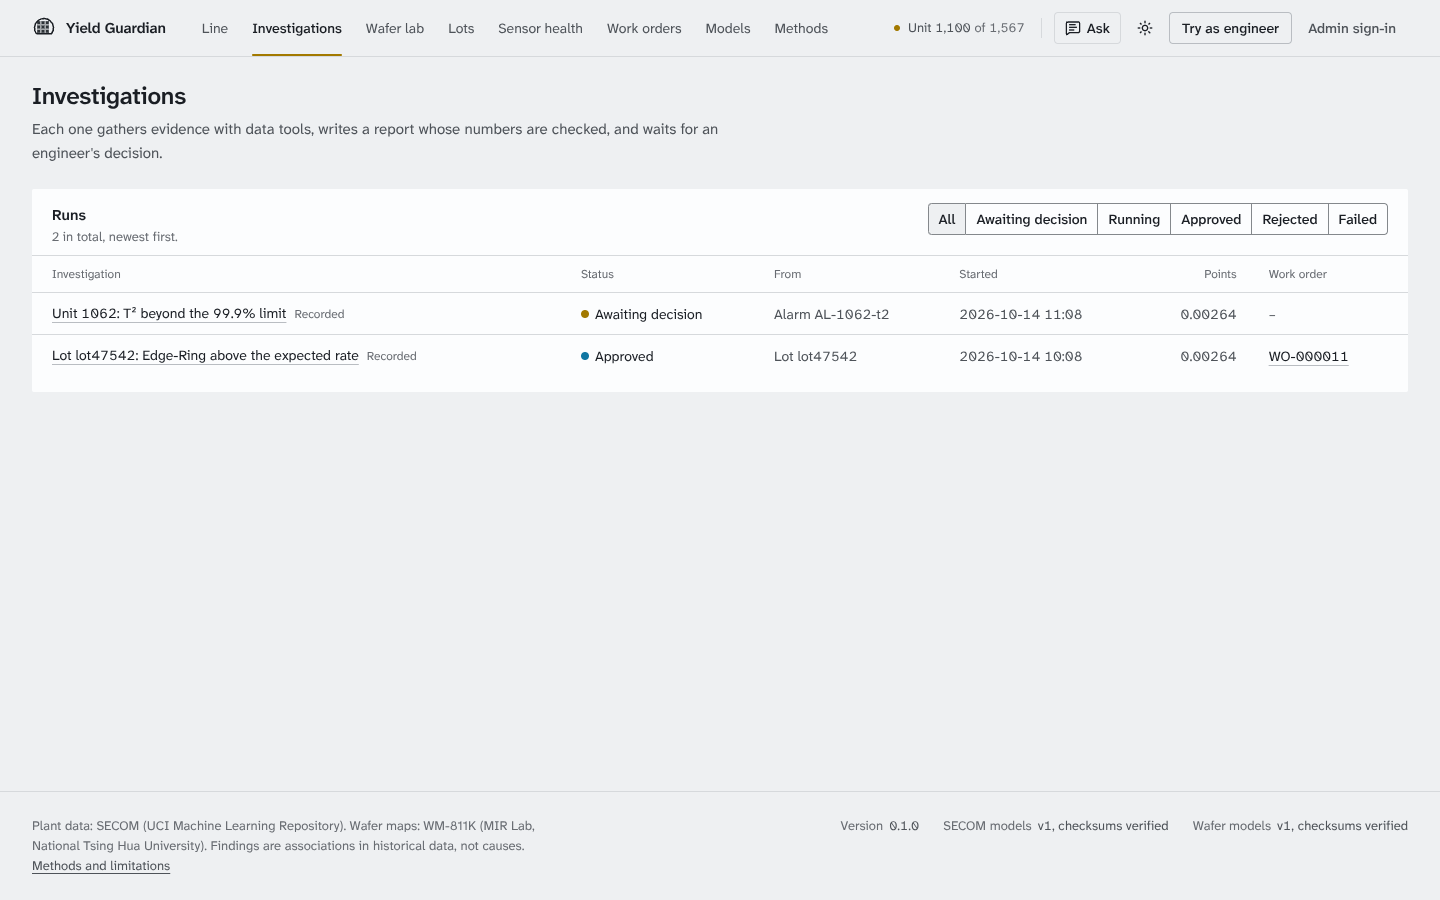
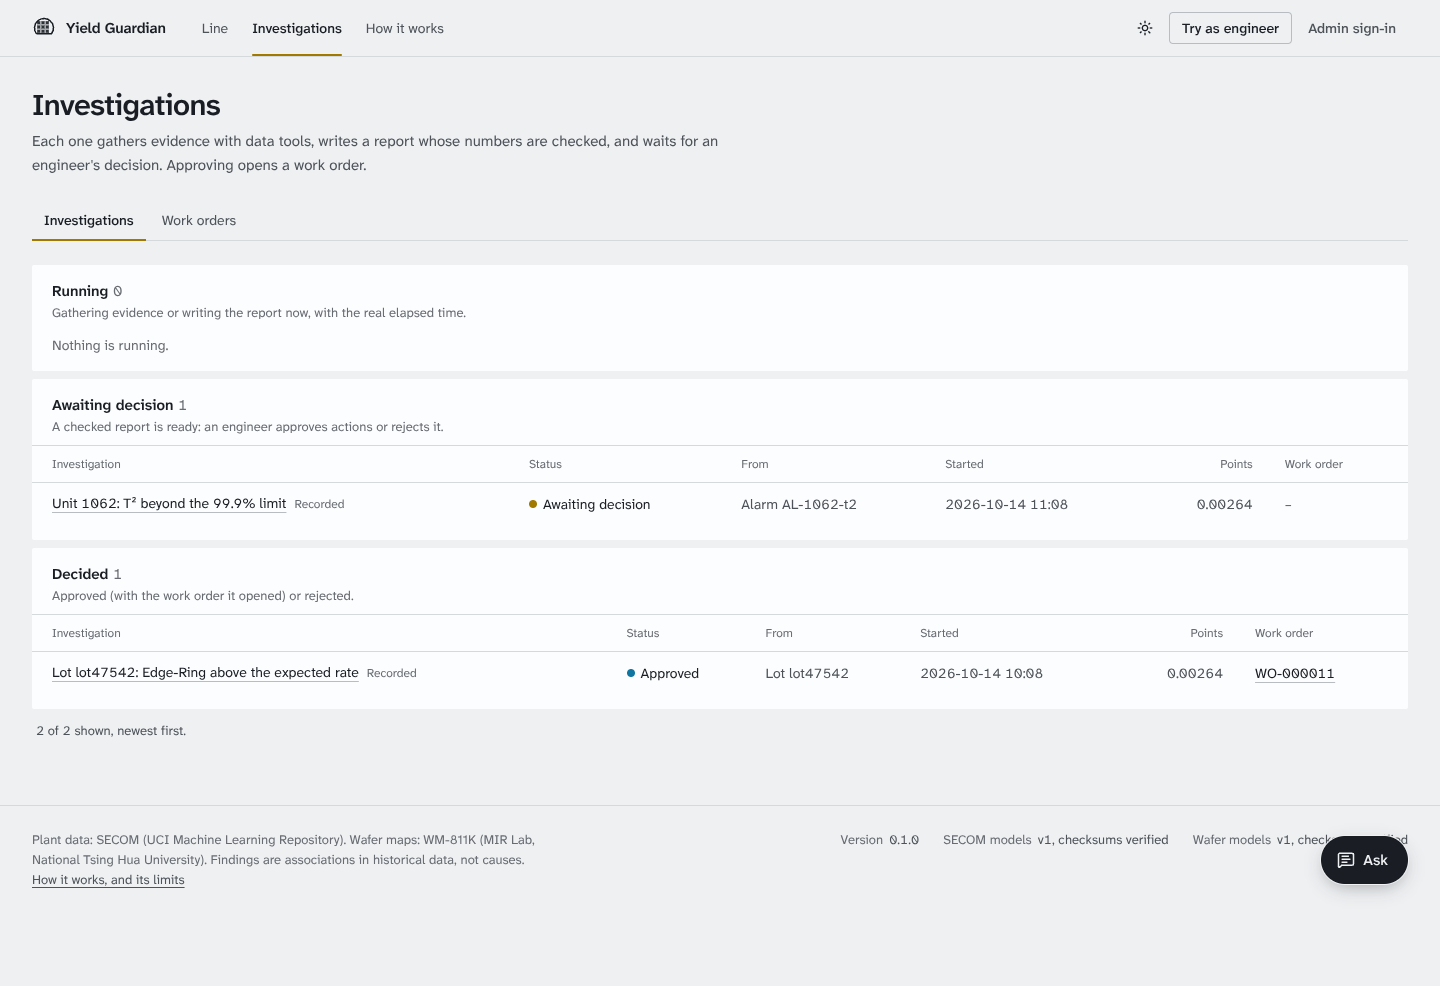
Route comment names the pick format, not a fixture lot ID
The production source maps carried the comment's example lot, which the no-fixtures check
rejects.

Claude-Session: https://claude.ai/code/session_01W66SkS2VhXFaLiM1yadMNk

diff --git a/apps/web/src/lib/routes.ts b/apps/web/src/lib/routes.ts
@@ -24,7 +24,7 @@ const LOT_ID = /^[A-Za-z0-9_.]{1,64}$/;
 const UNIT_ID = /^\d{1,6}$/;
 const WORK_ORDER_ID = /^WO-\d{6}$/;
 
-/** `unit:1062`, `wafer:lot47542-1`, `lot:lot47542`; null for anything else. */
+/** `unit:<unit id>`, `wafer:<lot>-<wafer index>`, `lot:<lot>`; null for anything else. */
 export function parsePick(value: string | null | undefined): Pick | null {
   const m = /^(unit|wafer|lot):(.+)$/.exec(value ?? "");
   if (!m) return null;
